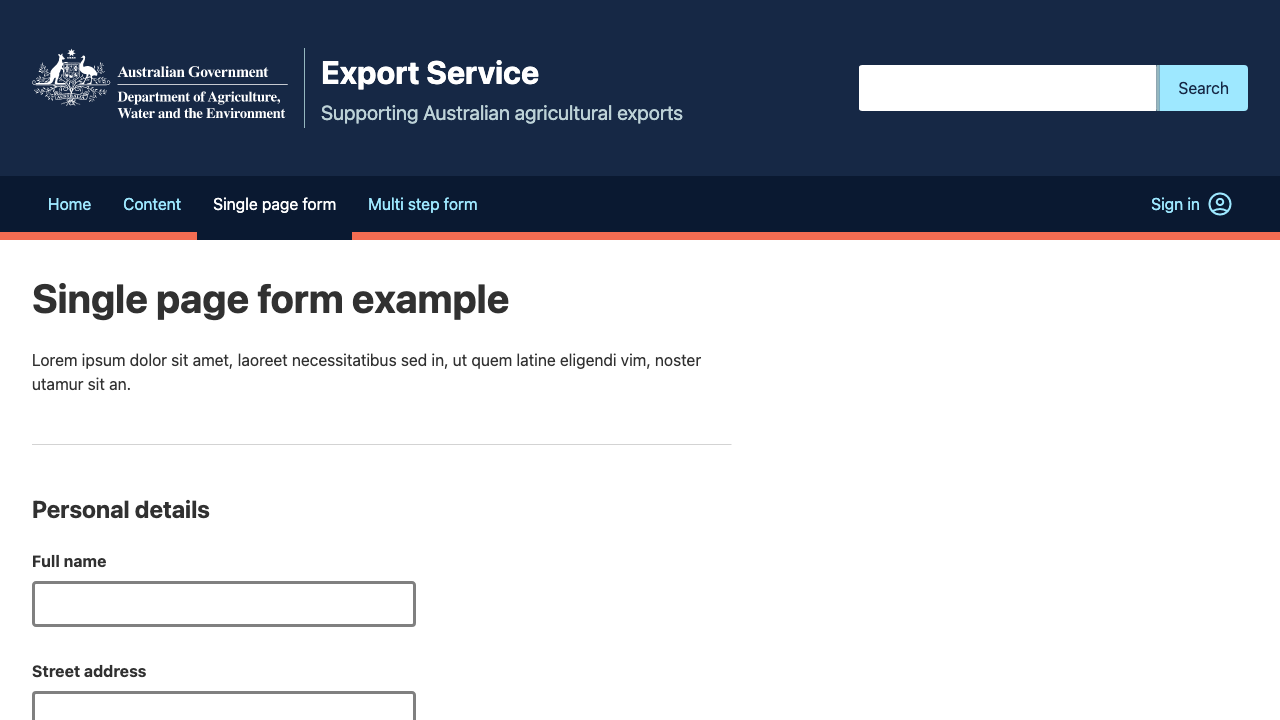
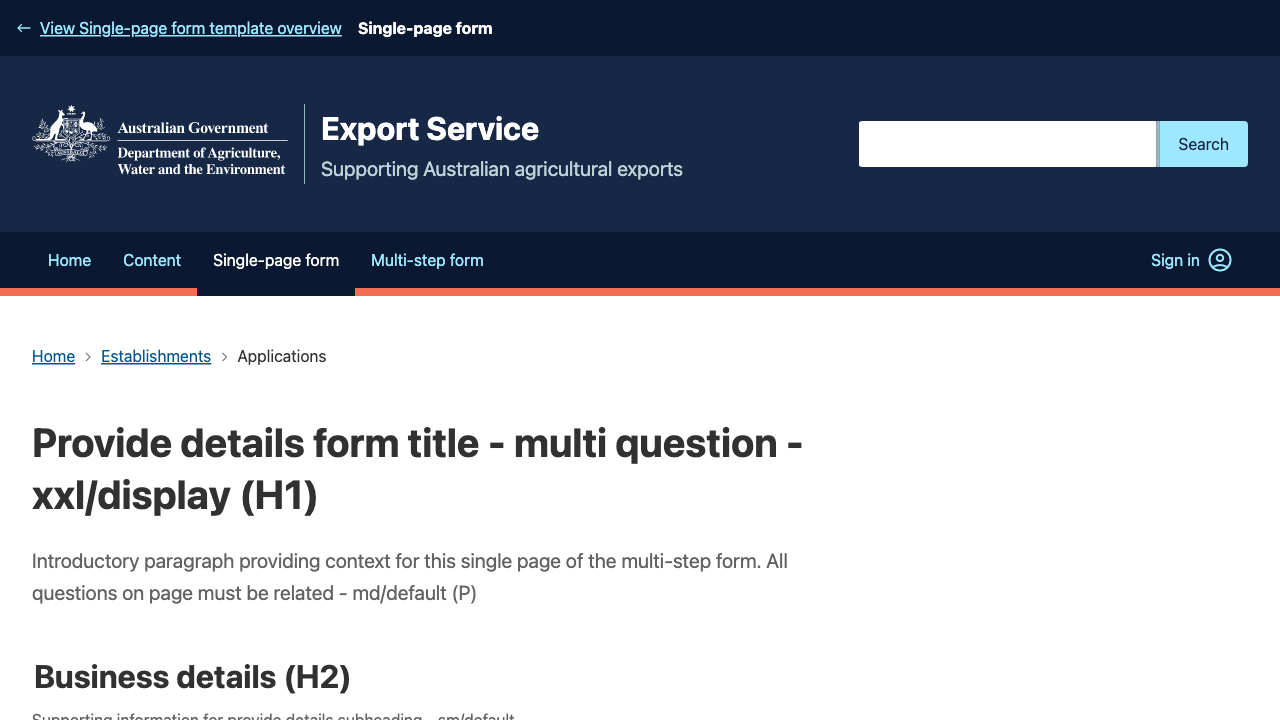
Update preview path

diff --git a/docs/scripts/generateTemplateImages.js b/docs/scripts/generateTemplateImages.js
@@ -1,10 +1,13 @@
 /* eslint-disable @typescript-eslint/no-var-requires */
 const { readdir, readFile } = require('fs/promises');
 const puppeteer = require('puppeteer');
-const { normalize } = require('path');
+const { normalize, join } = require('path');
 const matter = require('gray-matter');
 
+const BASE_URL = `http://localhost:3000/agds-next/example-site`;
+const OUTPUT_DIR = `public/img/templates/`;
 const TEMPLATES_PATH = normalize(`${process.cwd()}/../templates/`);
+
 const templateOverviewPath = (slug) =>
 	normalize(`${TEMPLATES_PATH}/${slug}/index.mdx`);
 
@@ -49,7 +52,7 @@ function getTemplateList() {
 			slugs.map((slug) =>
 				getMarkdownData(templateOverviewPath(slug)).then(({ data }) => ({
 					slug,
-					previewUrl: data?.previewUrl,
+					previewPath: data?.previewPath,
 				}))
 			)
 		);
@@ -57,27 +60,28 @@ function getTemplateList() {
 }
 
 (async () => {
+	console.info('Starting');
+	console.log(`Screenshoting ${BASE_URL}`);
+	console.info(`Outputing images to ${OUTPUT_DIR}`);
+
 	const templates = await getTemplateList();
 	const browser = await puppeteer.launch();
 
 	await Promise.all(
-		templates
-			.filter((template) => template.previewUrl)
-			.map(async (template) => {
-				console.log(`Generating preview image for ${template.slug} page.`);
-				const page = await browser.newPage();
-				await page.setViewport({
-					width: 1280,
-					height: 720,
-					deviceScaleFactor: 1,
-				});
-				await page.goto(template.previewUrl);
-				await page.screenshot({
-					path: `public/img/templates/${template.slug}.png`,
-				});
-			})
+		templates.map(async ({ slug, previewPath }, idx) => {
+			console.log(`Generating ${idx + 1} of ${templates.length}`);
+			const url = BASE_URL + previewPath;
+			const destination = OUTPUT_DIR + `/${slug}.png`;
+			const page = await browser.newPage();
+			await page.setViewport({
+				width: 1280,
+				height: 720,
+				deviceScaleFactor: 1,
+			});
+			await page.goto(url);
+			await page.screenshot({ path: destination });
+		})
 	);
-
 	await browser.close();
 
 	console.log('Done');

diff --git a/docs/components/TemplateLayout.tsx b/docs/components/TemplateLayout.tsx
@@ -53,9 +53,11 @@ export const TemplateLayout = ({
 					title={template.title}
 					introduction={template.data.description}
 					callToAction={
-						template.previewUrl && (
+						template.previewPath && (
 							<div>
-								<CallToActionLink href={template.previewUrl}>
+								<CallToActionLink
+									href={`/example-site/${template.previewPath}`}
+								>
 									View template preview
 								</CallToActionLink>
 							</div>

diff --git a/docs/lib/mdx/templates.ts b/docs/lib/mdx/templates.ts
@@ -23,8 +23,7 @@ export async function getTemplate(slug: string) {
 		source,
 		data,
 		title: (data.title ?? slug) as string,
-		imageSrc: (data.imageSrc ?? null) as string | null,
-		previewUrl: (data.previewUrl ?? null) as string | null,
+		previewPath: (data.previewPath ?? null) as string | null,
 	};
 }
 
